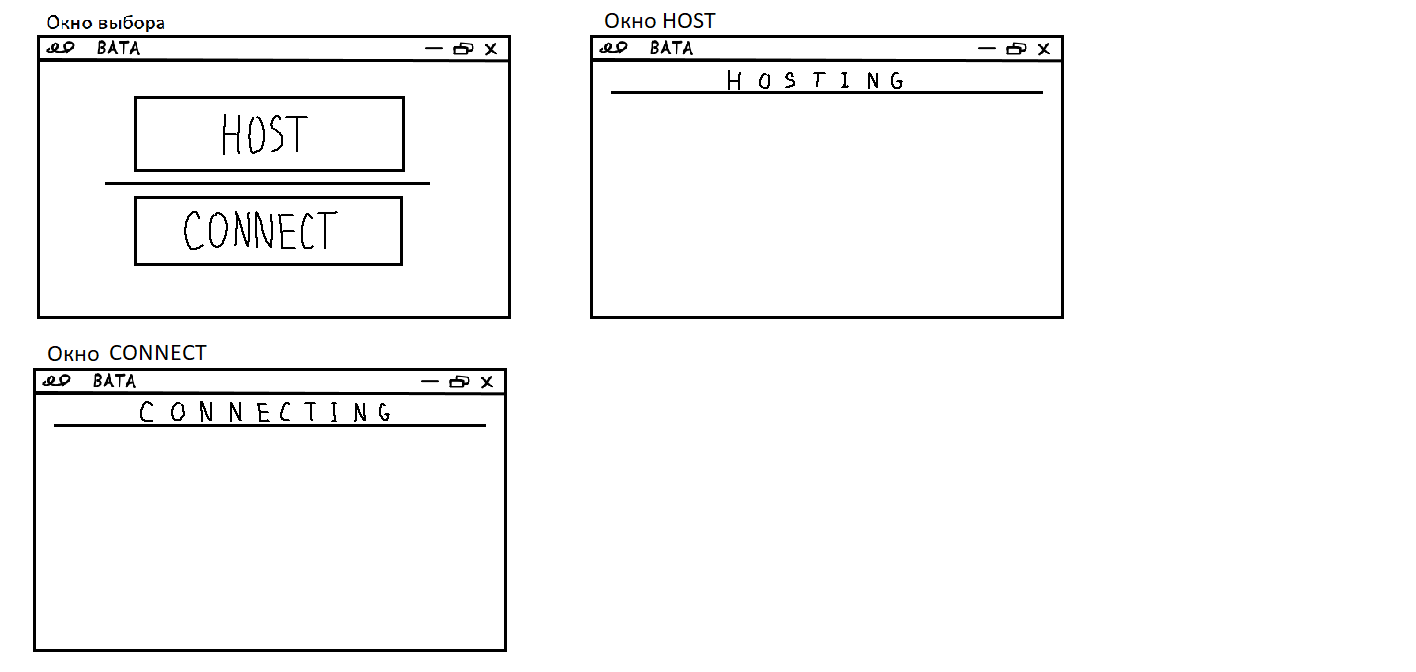
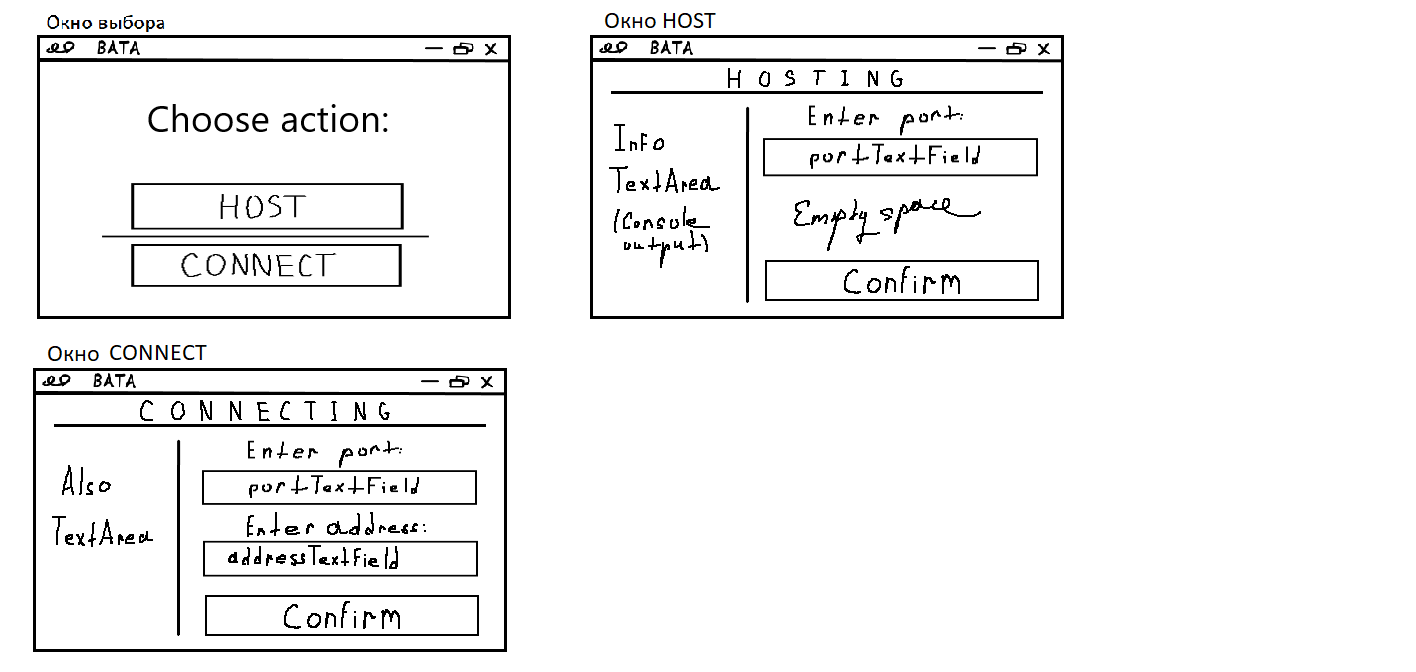
Host-window protipe and some design thoughts.

diff --git a/src/main/java/GUI.java b/src/main/java/GUI.java
@@ -21,10 +21,11 @@ public class GUI implements ActionListener {
 
     private final Font titleLabelFont = new Font("SansSerif", Font.BOLD, 28);
     private final Font textLabelFont = new Font("SansSerif", Font.PLAIN, 20);
-    private final Font textFieldFont = new Font("SansSerif", Font.PLAIN, 20);
+    private final Font textFieldFont = new Font("SansSerif", Font.PLAIN, 12);
     private final Font buttonFont = new Font("SansSerif", Font.ITALIC, 20);
 
-    private final Border APP_BORDER = BorderFactory.createEmptyBorder(20, 20, 20, 20);
+    private final Border EMPTY_BORDER = BorderFactory.createEmptyBorder(20, 20, 20, 20);
+    private final Border LINE_BORDER = BorderFactory.createLineBorder(Color.BLACK);
 
     private JFrame frame;
     private JPanel cardsPanel;
@@ -37,6 +38,7 @@ public class GUI implements ActionListener {
     private JTextField portTextField;
     private JTextField addressTextField;
     private JButton connectButton;
+    private JButton hostButton;
     private JButton hostNavButton;
     private JButton connectNavButton;
 
@@ -65,7 +67,6 @@ public class GUI implements ActionListener {
         frame.setSize(windowWidth, windowHeight);
         frame.setLocationRelativeTo(null);
         frame.setDefaultCloseOperation(JFrame.EXIT_ON_CLOSE);
-        frame.pack();
         frame.setVisible(true);
 
         cardLayout.show(cardsPanel, START_CARD);
@@ -88,19 +89,73 @@ public class GUI implements ActionListener {
         actionChoicePanel.add(hostNavButton);
         actionChoicePanel.add(connectNavButton);
 
-        panel.add(chooseActionLabel, BorderLayout.NORTH); // Label first
-        panel.add(actionChoicePanel, BorderLayout.CENTER); // Panel w/ buttons after the label
-        panel.setBorder(APP_BORDER);
+        panel.add(chooseActionLabel); // Label first
+        panel.add(actionChoicePanel); // Panel w/ buttons after the label
+        panel.setBorder(EMPTY_BORDER);
 
         return panel;
     }
 
     // TODO: host card
     private JPanel createHostCard() {
-        JPanel hostPanel = new JPanel();
-        JLabel titleLabel = new JLabel("HOSTING");
-        titleLabel.setFont(textLabelFont);
-        hostPanel.add(titleLabel);
+        JLabel titleLabel = new JLabel("HOSTING", JLabel.CENTER);
+        titleLabel.setFont(titleLabelFont);
+
+        JPanel leftPane = new JPanel();
+        JTextArea infoTextArea = new JTextArea(18, 15);
+        // Wrap lines if too long
+        infoTextArea.setLineWrap(true);
+        infoTextArea.setWrapStyleWord(true);
+        infoTextArea.setFont(textFieldFont);
+
+        JScrollPane scrollPane = new JScrollPane(infoTextArea);
+        leftPane.add(scrollPane);
+
+        JPanel rightPane = new JPanel(new GridLayout(4, 1));
+        JLabel portLabel = new JLabel("Enter port:", JLabel.CENTER);
+        portTextField = new JTextField(10);
+        // Making some space between the portTextField and the hostButton
+        JLabel emptyLabel = new JLabel("");
+        hostButton = new JButton("Host");
+
+        portTextField.setHorizontalAlignment(JTextField.CENTER);
+        hostButton.addActionListener(this);
+
+        portLabel.setFont(textLabelFont);
+        portTextField.setFont(textFieldFont);
+        hostButton.setFont(buttonFont);
+
+        rightPane.add(portLabel);
+        rightPane.add(portTextField);
+        rightPane.add(emptyLabel);
+        rightPane.add(hostButton);
+        rightPane.setBorder(EMPTY_BORDER);
+
+        JPanel hostPanel = new JPanel(new GridBagLayout());
+        GridBagConstraints c = new GridBagConstraints();
+        c.fill = GridBagConstraints.BOTH;
+        c.insets = new Insets(5, 5, 5, 5);
+
+        c.gridx = 0;
+        c.gridy = 0;
+        c.gridwidth = 2;
+        c.weightx = 1;
+        c.weighty = 0.5;
+        hostPanel.add(titleLabel, c);
+
+        c.gridx = 0;
+        c.gridy = 1;
+        c.gridwidth = 1;
+        c.weightx = 0.2;
+        c.weighty = 1;
+        hostPanel.add(leftPane, c);
+
+        c.gridx = 1;
+        c.gridy = 1;
+        c.gridwidth = 1;
+        c.weightx = 0.8;
+        c.weighty = 1;
+        hostPanel.add(rightPane, c);
 
         return hostPanel;
     }
@@ -131,7 +186,7 @@ public class GUI implements ActionListener {
         connectPanel.add(addressLabel);
         connectPanel.add(addressTextField);
         connectPanel.add(connectButton);
-        connectPanel.setBorder(APP_BORDER);
+        connectPanel.setBorder(EMPTY_BORDER);
 
         return connectPanel;
     }
